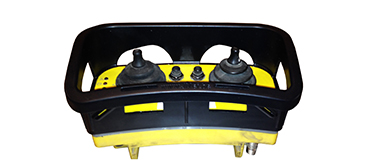
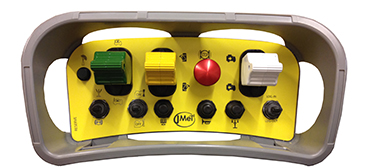
Radio du mois février FR

diff --git a/html/fr/realisations.php b/html/fr/realisations.php
@@ -15,7 +15,7 @@
 					<div>
 						<ul id="leftnav" class="nav nav-tabs nav-stacked">
 							<li class="nav-header">Radiocommandes personnalisées</li>
-                            <li class="active"><a href="#blog-2014-01">Janvier 2014 <i class="icon-chevron-right pull-right"></i></a></li>
+							<li class="active"><a href="#blog-2014-02">Février 2014 <i class="icon-chevron-right pull-right"></i></a></li>                         <li class="active"><a href="#blog-2014-01">Janvier 2014 <i class="icon-chevron-right pull-right"></i></a></li>
 							<li class="active"><a href="#blog-2013-12">Décembre 2013 <i class="icon-chevron-right pull-right"></i></a></li>
 							<li><a href="#blog-2013-11">Novembre 2013 <i class="icon-chevron-right pull-right"></i></a></li>
 						</ul>
@@ -23,6 +23,17 @@
 				</div>
 				<div class="span9">
 				<!--Body content-->
+               	  <section id="blog-2014-02">
+					<h3>Télécommande analogique / CANopen personnalisée</h3>
+				    <img class="img-polaroid blog" src="../img/custom-product/2014-02-3000.jpg" alt="Télécommande industrielle personnalisée">
+					  <p>Radiocommande proportionnelle CANbus (Canopen) pour machines mobiles.
+					    <br>
+					  Cet émetteur est destiné principalement à la commande de trois fonctions bien distinctes de l'application.<br>
+					  Afin d'accroître la sécurité lors des différentes manipulations, les couleurs présentes sur  la machine industrielle (différentes selon les mouvements) ont été 
+					  recopiées sur les actionneurs de l'émetteur de la télécommande.<br>
+					  </p>
+               	  </section>
+					<hr> 
 					<section id="blog-2014-01">
 						<h3>Arceau de protection (SAV)</h3>
 					  <img class="img-polaroid blog" src="../img/custom-product/2014-01-3000.jpg" alt="RCB3000 personnalisée avec retour d'informations">
@@ -44,7 +55,7 @@
 						<h3>RCB700 - OEM groupe Warzee S.A.</h3>
 						<img class="img-polaroid blog" src="../img/custom-product/2013-11-700.jpg" alt="RCB700 - Commande de machine agricole - Warzee">
 						<p>RCB700 entièrement personnalisée.<br>
-						  Commande à distance d'une dérouleuse déportée (sur la fourche d'une machine agricole) depuis la cabine de la machine par radio-fréquence JMei.
+						  Commande à distance d'une dérouleuse déportée (sur la fourche d'une machine agricole) depuis la cabine de la machine par radio-fréquence.
 						</p>
 					</section>
 					<hr>

diff --git a/html/fr/index.php b/html/fr/index.php
@@ -97,7 +97,7 @@
                     <p><a class="btn btn-jmei" href="<?php echo Site::relativeUrl('contact');?>">Contactez-nous! &raquo;</a></p>
                 </div>
                 <div class="span4">
-                    <h2>Nouvelle solution du département SAV!</h2>
+                    <h2>La radio du mois!</h2>
                     <a href="<?php echo Site::relativeUrl('realisations');?>" style="text-align: left"><img src="../img/home/month-radio.jpg?v=1" alt="Radiocommande Industrielle"></a>
                </div>
                 <div class="span4">
